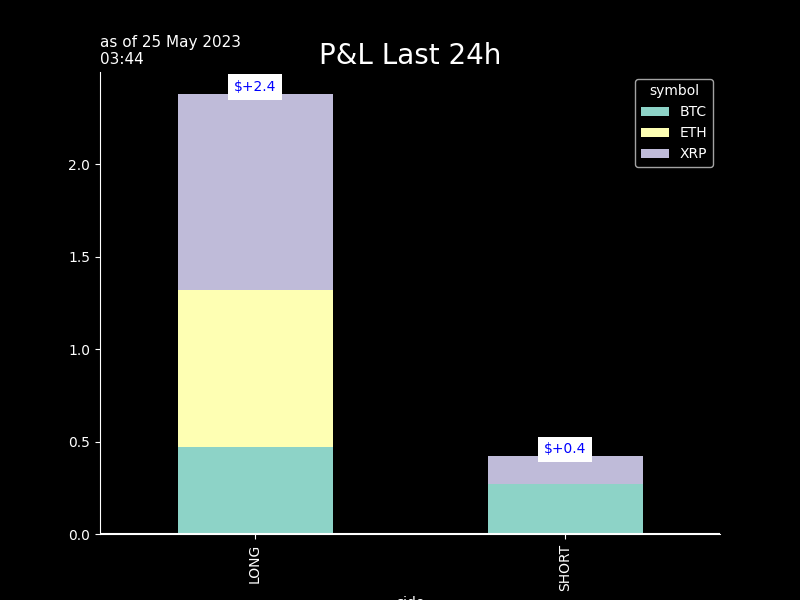
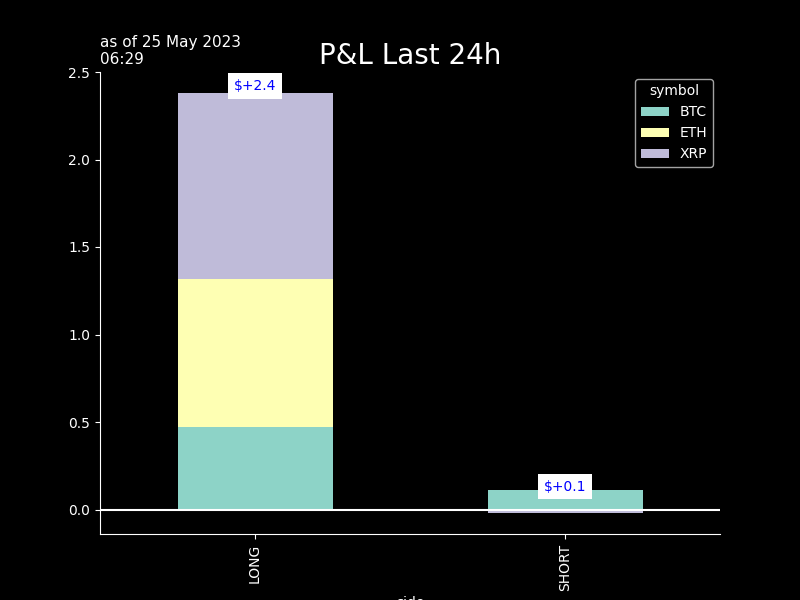
seb_commit

diff --git a/crypto/graphs/bt_trades_book.htmltrade_trades_book.html b/crypto/graphs/bt_trades_book.htmltrade_trades_book.html
@@ -37,38 +37,38 @@
   </thead>
   <tbody>
     <tr>
-      <th>XRPUSDT</th>
-      <td>0.4512</td>
-      <td>2023-05-25 02:43:32.500</td>
-      <td>-171.800</td>
-      <td>$-77.5</td>
-      <td>$0.02</td>
-      <td>2.0</td>
-      <td>0.0</td>
-      <td>0.45105</td>
-      <td>2023-05-25 03:42</td>
-      <td>0.0</td>
-      <td>4.0</td>
-      <td>.4513</td>
-      <td>-0.0</td>
-      <td>-3.0</td>
-    </tr>
-    <tr>
       <th>BTCUSDT</th>
-      <td>26080.3500</td>
-      <td>2023-05-25 02:44:07.000</td>
-      <td>-0.002</td>
-      <td>$-52.2</td>
+      <td>26251.7000</td>
+      <td>2023-05-25 05:29:05</td>
+      <td>0.001</td>
+      <td>$26.3</td>
       <td>$0.01</td>
       <td>2.0</td>
-      <td>0.0</td>
-      <td>26075.95000</td>
-      <td>2023-05-25 03:42</td>
-      <td>0.0</td>
-      <td>2.0</td>
-      <td>26085.4</td>
+      <td>-0.2</td>
+      <td>26251.35000</td>
+      <td>2023-05-25 06:26</td>
       <td>-0.0</td>
-      <td>-2.0</td>
+      <td>-0.0</td>
+      <td>26251.8</td>
+      <td>0.0</td>
+      <td>0.0</td>
+    </tr>
+    <tr>
+      <th>XRPUSDT</th>
+      <td>0.4533</td>
+      <td>2023-05-25 05:27:46</td>
+      <td>85.900</td>
+      <td>$38.9</td>
+      <td>$0.01</td>
+      <td>2.0</td>
+      <td>-0.2</td>
+      <td>0.45345</td>
+      <td>2023-05-25 06:26</td>
+      <td>0.0</td>
+      <td>3.0</td>
+      <td>.4533</td>
+      <td>-0.0</td>
+      <td>-0.0</td>
     </tr>
   </tbody>
 </table>

diff --git a/crypto/graphs/bt_trades_recap.htmltrade_trades_recap.html b/crypto/graphs/bt_trades_recap.htmltrade_trades_recap.html
@@ -9,32 +9,32 @@
   <tbody>
     <tr>
       <th>as of</th>
-      <td>25May 02:43&gt;&gt;02:44</td>
+      <td>25May 05:27&gt;&gt;05:29</td>
       <td>#trades: 2</td>
     </tr>
     <tr>
       <th>trade net</th>
-      <td>-130.0</td>
-      <td>-41.2%</td>
+      <td>+65.0</td>
+      <td>+20.6%</td>
     </tr>
     <tr>
       <th>trade gross</th>
-      <td>+130.0</td>
-      <td>+41.2%</td>
+      <td>+65.0</td>
+      <td>+20.6%</td>
     </tr>
     <tr>
       <th>BUY</th>
+      <td>+65.0</td>
+      <td>+20.6%</td>
+    </tr>
+    <tr>
+      <th>SELL</th>
       <td>+0.0</td>
       <td>+0.0%</td>
     </tr>
     <tr>
-      <th>SELL</th>
-      <td>-130.0</td>
-      <td>-41.2%</td>
-    </tr>
-    <tr>
       <th>fees</th>
-      <td>$ 0.026</td>
+      <td>$ 0.013</td>
       <td>2.0bp</td>
     </tr>
   </tbody>

diff --git a/crypto/graphs/bt_trades_pnlD_recap.htmltrade_trades_pnlD_recap.html b/crypto/graphs/bt_trades_pnlD_recap.htmltrade_trades_pnlD_recap.html
@@ -1,7 +1,7 @@
 <table border="1" class="dataframe">
   <thead>
     <tr style="text-align: right;">
-      <th>25 May 03:44</th>
+      <th>25 May 06:29</th>
       <th>realizedPnl</th>
       <th>PnLvsArrival</th>
       <th>PnLvsLast</th>
@@ -10,21 +10,21 @@
   <tbody>
     <tr>
       <th>in$</th>
+      <td>-0.3</td>
       <td>0.0</td>
       <td>0.0</td>
-      <td>-0.0</td>
     </tr>
     <tr>
-      <th>in bp 129 traded</th>
+      <th>in bp 65 traded</th>
+      <td>-52 bp</td>
       <td>2 bp</td>
-      <td>3 bp</td>
-      <td>-2 bp</td>
+      <td>0 bp</td>
     </tr>
     <tr>
-      <th>in bp 315 AUMs</th>
-      <td>1 bp</td>
-      <td>1 bp</td>
-      <td>-1 bp</td>
+      <th>in bp 314 AUMs</th>
+      <td>-11 bp</td>
+      <td>0 bp</td>
+      <td>0 bp</td>
     </tr>
   </tbody>
 </table>
